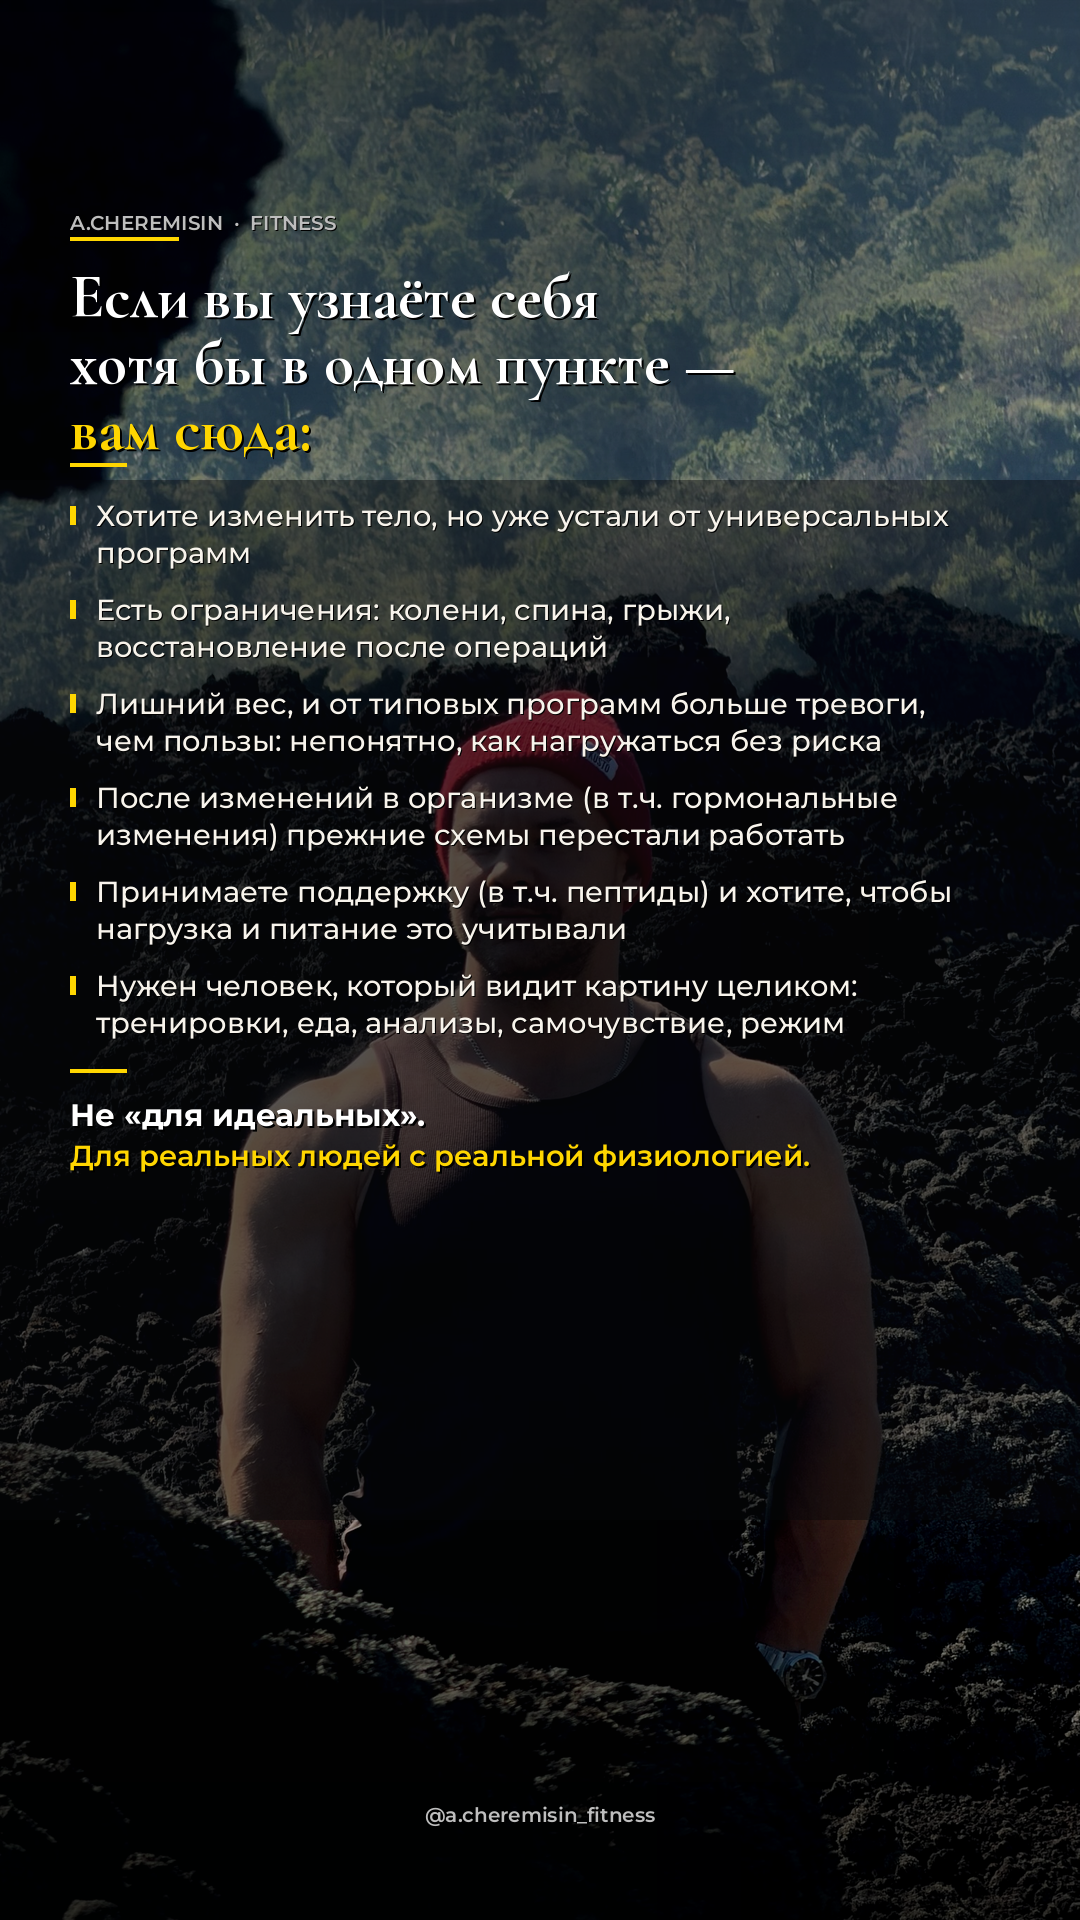
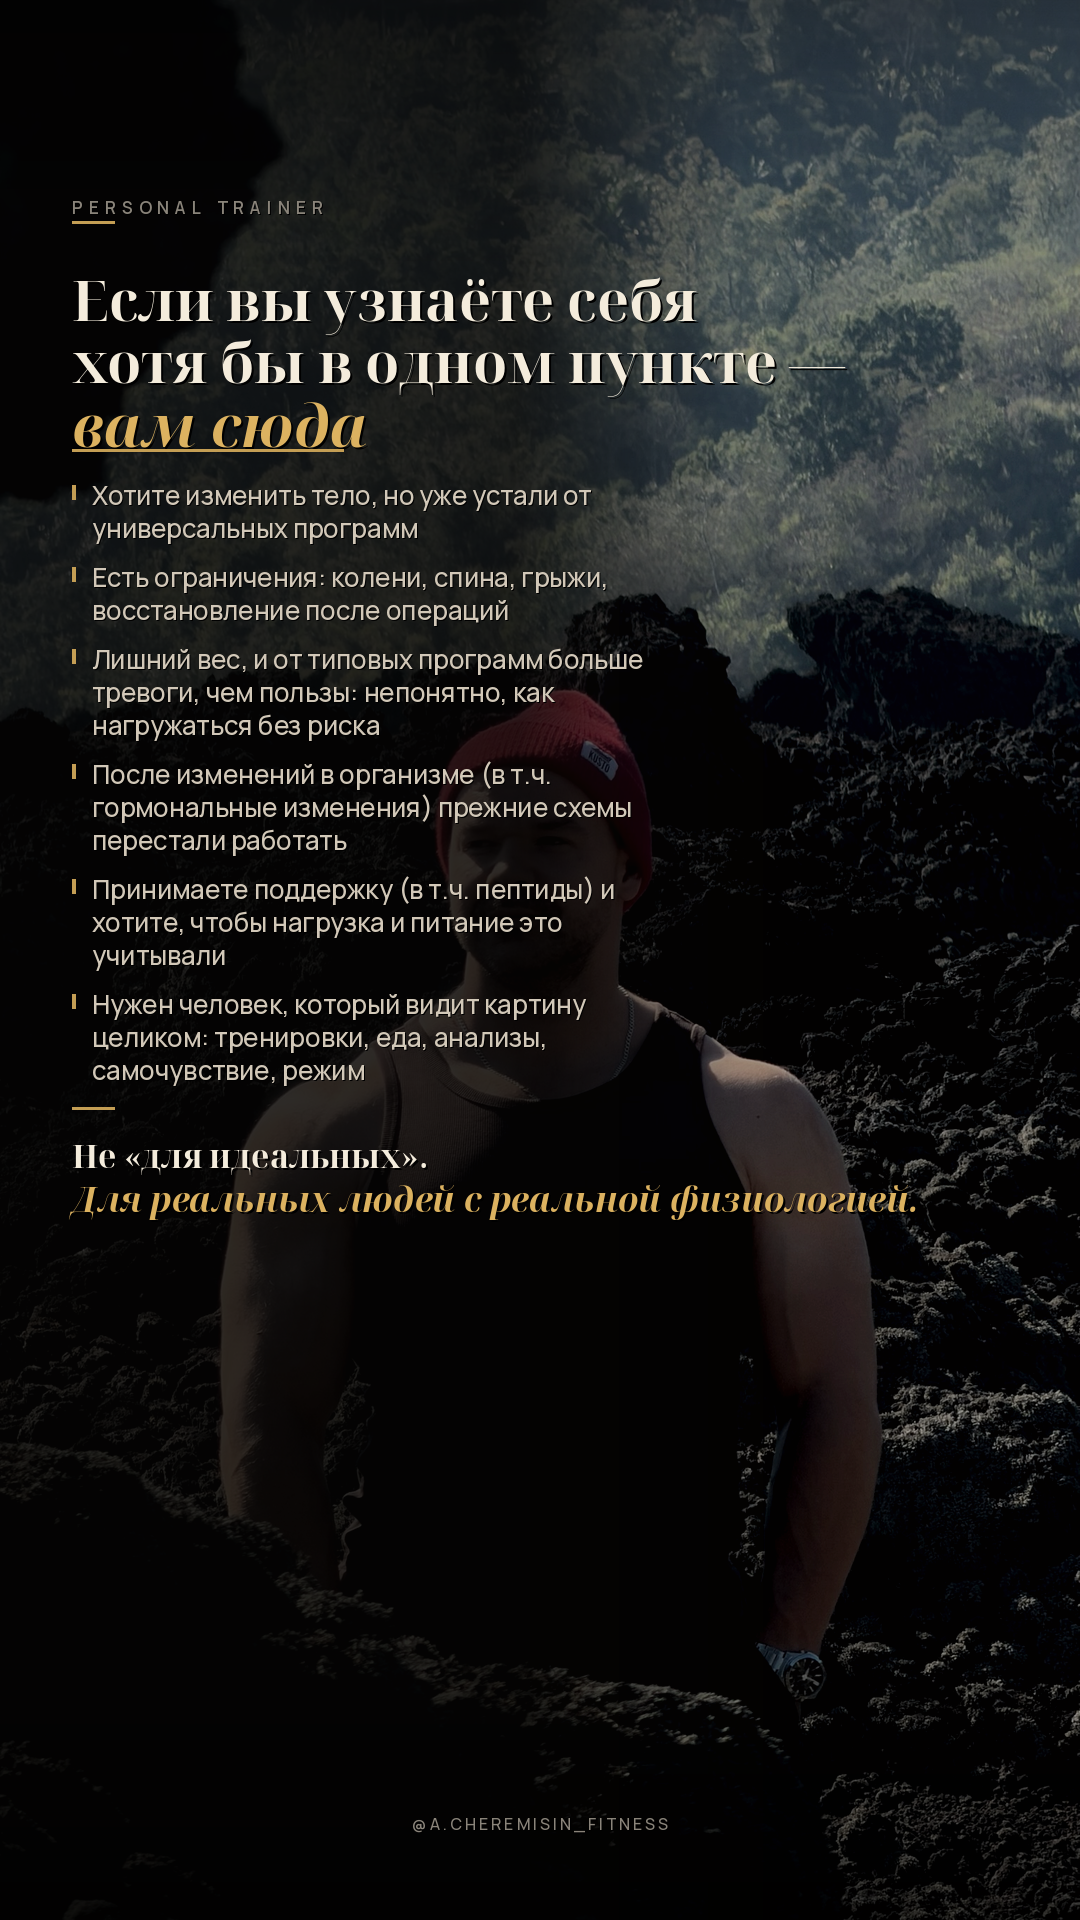
Refine story slide: dark underlay, Didone display type
Switch to Noto Serif Display for a high-contrast editorial look
matching the references; keep the photo visible on the right under
a left-weighted dark panel with cream/gold accents.

diff --git a/create_story.py b/create_story.py
@@ -1,7 +1,10 @@
 #!/usr/bin/env python3
-"""Instagram Stories slide — refined for a.cheremisin_fitness brand."""
+"""
+Premium Instagram Stories slide.
+Dark editorial underlay + Noto Serif Display (high-contrast Didone from refs).
+"""
 
-from PIL import Image, ImageDraw, ImageFont, ImageEnhance
+from PIL import Image, ImageDraw, ImageFont, ImageEnhance, ImageFilter
 from pathlib import Path
 
 W, H = 1080, 1920
@@ -12,20 +15,24 @@ ART = Path("/opt/cursor/artifacts")
 OUT.mkdir(exist_ok=True)
 ART.mkdir(parents=True, exist_ok=True)
 
-YELLOW = (255, 214, 0)
-WHITE = (255, 255, 255)
-CREAM = (248, 244, 236)
-MUTED = (190, 190, 190)
+CREAM = (244, 236, 220)
+CREAM_DIM = (210, 200, 184)
+GOLD = (220, 178, 96)
+GOLD_SOFT = (196, 158, 84)
+MUTED = (138, 132, 122)
 
-font_hook = ImageFont.truetype(str(FONTS / "Cormorant-700.ttf"), 62)
-font_accent = ImageFont.truetype(str(FONTS / "Cormorant-700.ttf"), 62)
-font_body = ImageFont.truetype(str(FONTS / "Montserrat-500.ttf"), 29)
-font_label = ImageFont.truetype(str(FONTS / "Montserrat-600.ttf"), 20)
-font_close = ImageFont.truetype(str(FONTS / "Montserrat-600.ttf"), 29)
-font_close_em = ImageFont.truetype(str(FONTS / "Montserrat-700.ttf"), 31)
+# High-contrast Didone display — fashion/editorial look from references
+NOTO = Path("/usr/share/fonts/truetype/noto")
+font_hook = ImageFont.truetype(str(NOTO / "NotoSerifDisplay-Bold.ttf"), 56)
+font_hook_it = ImageFont.truetype(str(NOTO / "NotoSerifDisplay-BoldItalic.ttf"), 58)
+font_close = ImageFont.truetype(str(NOTO / "NotoSerifDisplay-Bold.ttf"), 32)
+font_close_it = ImageFont.truetype(str(NOTO / "NotoSerifDisplay-BoldItalic.ttf"), 34)
+font_body = ImageFont.truetype(str(FONTS / "MR-500.ttf"), 26)
+font_label = ImageFont.truetype(str(FONTS / "MR-600.ttf"), 17)
+font_handle = ImageFont.truetype(str(FONTS / "MR-500.ttf"), 16)
 
 
-def cover_crop(img: Image.Image, tw: int, th: int, focus=(0.55, 0.32)) -> Image.Image:
+def cover_crop(img: Image.Image, tw: int, th: int, focus=(0.65, 0.28)) -> Image.Image:
     img = img.convert("RGB")
     sw, sh = img.size
     scale = max(tw / sw, th / sh)
@@ -38,43 +45,50 @@ def cover_crop(img: Image.Image, tw: int, th: int, focus=(0.55, 0.32)) -> Image.
     return img.crop((left, top, left + tw, top + th))
 
 
-def prepare_bg(photo: Image.Image, focus) -> Image.Image:
+def make_underlay(photo: Image.Image, focus) -> Image.Image:
+    """
+    Dark story underlay:
+    - photo pushed to the right (subject visible)
+    - left text column stays deep black
+    - overall moody grade, not crushed black
+    """
     base = cover_crop(photo, W, H, focus=focus)
-    # Keep subject a bit brighter
-    base = ImageEnhance.Brightness(base).enhance(0.88)
-    base = ImageEnhance.Contrast(base).enhance(1.1)
-    base = base.convert("RGBA")
 
-    overlay = Image.new("RGBA", (W, H), (0, 0, 0, 0))
-    d = ImageDraw.Draw(overlay)
+    # Keep subject readable, then grade moody (not crushed)
+    base = ImageEnhance.Brightness(base).enhance(0.82)
+    base = ImageEnhance.Color(base).enhance(0.68)
+    base = ImageEnhance.Contrast(base).enhance(1.22)
 
-    # Left-weighted dark panel for text (keep right side of subject visible)
-    for x in range(0, W):
-        # stronger on left 70%, fade to right
+    # Warm dark blend (editorial) — light touch so photo stays present
+    warm = Image.new("RGB", (W, H), (12, 9, 7))
+    base = Image.blend(base, warm, 0.18)
+    rgba = base.convert("RGBA")
+
+    # Left text panel: deep dark for type; right stays open so YOU are visible
+    panel = Image.new("RGBA", (W, H), (0, 0, 0, 0))
+    pd = ImageDraw.Draw(panel)
+    for x in range(W):
         t = x / W
-        if t < 0.58:
-            side_a = 70
+        if t < 0.48:
+            a = 200
+        elif t < 0.68:
+            a = int(200 - (t - 0.48) / 0.20 * 155)
         else:
-            side_a = int(70 * (1 - (t - 0.58) / 0.42) ** 1.3)
-        d.line([(x, 0), (x, H)], fill=(5, 6, 8, max(0, side_a)))
+            a = int(45 - (t - 0.68) / 0.32 * 25)
+        pd.line([(x, 0), (x, H)], fill=(5, 4, 3, max(12, a)))
 
-    # Vertical readability bands
-    band = Image.new("RGBA", (W, H), (0, 0, 0, 0))
-    bd = ImageDraw.Draw(band)
-    for y in range(0, 520):
-        a = int(130 * (1 - y / 520) ** 0.7)
-        bd.line([(0, y), (W, y)], fill=(0, 0, 0, a))
-    for y in range(480, 1600):
-        t = (y - 480) / 1120
-        peak = 1 - abs(t - 0.4) * 0.9
-        a = int(85 + 55 * max(0, peak))
-        bd.line([(0, y), (W, y)], fill=(6, 7, 9, min(155, a)))
-    for y in range(1520, H):
-        a = int(180 * ((y - 1520) / (H - 1520)) ** 0.8)
-        bd.line([(0, y), (W, y)], fill=(0, 0, 0, min(210, a)))
+    # Soft top/bottom vignette only
+    vig = Image.new("RGBA", (W, H), (0, 0, 0, 0))
+    vd = ImageDraw.Draw(vig)
+    for y in range(0, 280):
+        a = int(110 * (1 - y / 280) ** 1.1)
+        vd.line([(0, y), (W, y)], fill=(0, 0, 0, a))
+    for y in range(1680, H):
+        a = int(150 * ((y - 1680) / (H - 1680)) ** 0.9)
+        vd.line([(0, y), (W, y)], fill=(0, 0, 0, min(190, a)))
 
-    out = Image.alpha_composite(base, overlay)
-    out = Image.alpha_composite(out, band)
+    out = Image.alpha_composite(rgba, panel)
+    out = Image.alpha_composite(out, vig)
     return out.convert("RGB")
 
 
@@ -100,29 +114,38 @@ def shadow_text(draw, xy, text, font, fill, offset=2):
     draw.text((x, y), text, font=font, fill=fill)
 
 
-def build(photo_path: Path, out_name: str, focus=(0.58, 0.30)):
-    base = prepare_bg(Image.open(photo_path), focus)
+def spaced_label(draw, text, font, xy, fill, tracking=5):
+    x, y = xy
+    for ch in text:
+        shadow_text(draw, (x, y), ch, font, fill, offset=1)
+        x += draw.textlength(ch, font=font) + tracking
+    return x
+
+
+def build(photo_path: Path, out_name: str, focus=(0.65, 0.28)):
+    base = make_underlay(Image.open(photo_path), focus)
     canvas = base.convert("RGBA")
     draw = ImageDraw.Draw(canvas)
 
-    margin = 70
-    max_w = W - margin * 2 - 20
-    y = 210
+    margin = 72
+    content_w = 600  # left column — photo visible on right
+    y = 195
 
-    label = "A.CHEREMISIN  ·  FITNESS"
-    shadow_text(draw, (margin, y), label, font_label, MUTED, offset=1)
-    bbox = draw.textbbox((margin, y), label, font=font_label)
-    draw.rectangle([margin, bbox[3] + 6, margin + 108, bbox[3] + 9], fill=YELLOW)
-    y = bbox[3] + 28
+    spaced_label(draw, "PERSONAL TRAINER", font_label, (margin, y), MUTED, tracking=6)
+    y += 26
+    draw.rectangle([margin, y, margin + 42, y + 2], fill=GOLD_SOFT)
+    y += 40
 
+    # Large Didone headline
     for line in ("Если вы узнаёте себя", "хотя бы в одном пункте —"):
-        shadow_text(draw, (margin, y), line, font_hook, WHITE, offset=2)
-        y += 66
+        shadow_text(draw, (margin, y), line, font_hook, CREAM, offset=2)
+        y += 62
 
-    shadow_text(draw, (margin, y), "вам сюда:", font_accent, YELLOW, offset=2)
-    y += 72
-    draw.rectangle([margin, y, margin + 56, y + 3], fill=YELLOW)
-    y += 34
+    # Italic gold accent — magazine emphasis
+    shadow_text(draw, (margin, y), "вам сюда", font_hook_it, GOLD, offset=2)
+    aw = draw.textlength("вам сюда", font=font_hook_it)
+    draw.rectangle([margin, y + 64, margin + aw * 0.92, y + 66], fill=GOLD_SOFT)
+    y += 92
 
     bullets = [
         "Хотите изменить тело, но уже устали от универсальных программ",
@@ -134,32 +157,31 @@ def build(photo_path: Path, out_name: str, focus=(0.58, 0.30)):
     ]
 
     for item in bullets:
-        lines = wrap_text(item, font_body, max_w - 34, draw)
-        by = y + 9
-        draw.rectangle([margin, by, margin + 5, by + 18], fill=YELLOW)
-        tx = margin + 26
+        lines = wrap_text(item, font_body, content_w - 24, draw)
+        draw.rectangle([margin, y + 8, margin + 3, y + 22], fill=GOLD_SOFT)
+        tx = margin + 20
         for line in lines:
-            shadow_text(draw, (tx, y), line, font_body, CREAM, offset=1)
-            y += 37
-        y += 20
+            shadow_text(draw, (tx, y), line, font_body, CREAM_DIM, offset=1)
+            y += 33
+        y += 16
 
-    y += 8
-    draw.rectangle([margin, y, margin + 56, y + 3], fill=YELLOW)
+    y += 6
+    draw.rectangle([margin, y, margin + 42, y + 2], fill=GOLD_SOFT)
     y += 26
-    shadow_text(draw, (margin, y), "Не «для идеальных».", font_close_em, WHITE, offset=2)
+    shadow_text(draw, (margin, y), "Не «для идеальных».", font_close, CREAM, offset=2)
     y += 42
     shadow_text(
         draw,
         (margin, y),
         "Для реальных людей с реальной физиологией.",
-        font_close,
-        YELLOW,
+        font_close_it,
+        GOLD,
         offset=2,
     )
 
-    handle = "@a.cheremisin_fitness"
-    hw = draw.textlength(handle, font=font_label)
-    shadow_text(draw, ((W - hw) / 2, H - 118), handle, font_label, MUTED, offset=1)
+    handle = "@A.CHEREMISIN_FITNESS"
+    total = sum(draw.textlength(ch, font=font_handle) + 3 for ch in handle) - 3
+    spaced_label(draw, handle, font_handle, ((W - total) / 2, H - 108), MUTED, tracking=3)
 
     final = canvas.convert("RGB")
     for dest in (OUT / out_name, ART / out_name):
@@ -172,11 +194,10 @@ if __name__ == "__main__":
     build(
         ASSETS / "fc132508-741c-4fd8-84fd-e0942788c9f4.jpg",
         "cheremisin_story_slide.png",
-        focus=(0.58, 0.30),
+        focus=(0.62, 0.28),
     )
-    # Bonus alt on beach — more lifestyle
     build(
-        ASSETS / "4149701a-c32f-4dfe-91b5-3b1c2202743c.jpg",
-        "cheremisin_story_slide_beach.png",
-        focus=(0.52, 0.58),
+        ASSETS / "a84e4e80-0540-4281-af77-7a25b5ded17f.jpg",
+        "cheremisin_story_slide_alt.png",
+        focus=(0.58, 0.40),
     )
